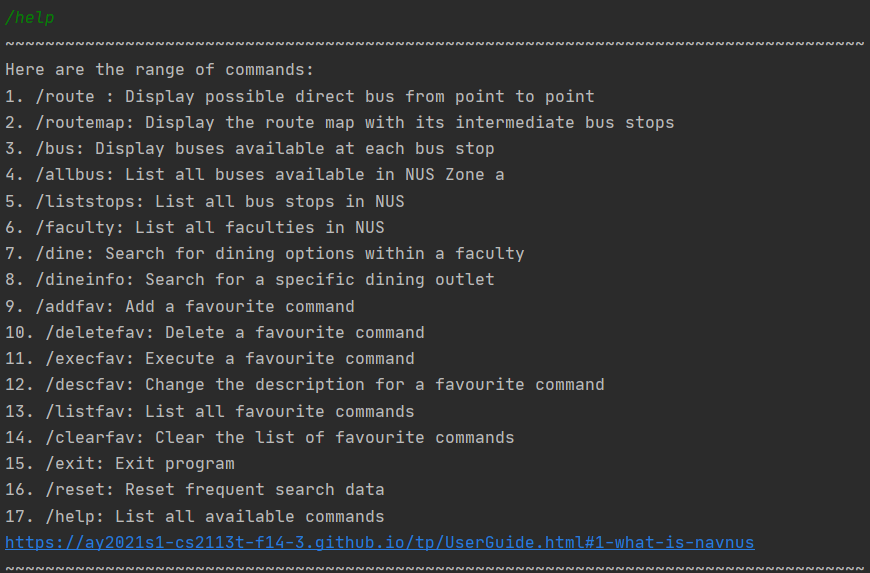
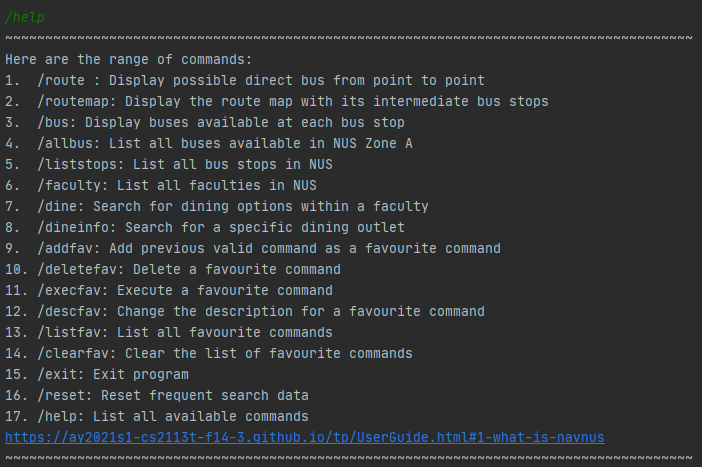
Change image for help and exit.
Include note for addfav

Changed region(s): [[0.0, 0.0, 1.0, 1.0]]

diff --git a/docs/UserGuide.md b/docs/UserGuide.md
@@ -331,7 +331,9 @@ to your needs.
 
 <!-- @@author Lezn0 -->
 ### 3.3.1. Add a favourite command: `/addfav` -Yuxin
-This command adds a valid command with an optional description to your list of favourites
+This command adds a valid command with an optional description to your list of favourites.
+>Note: A valid command is command that does not return an error message and not associated 
+>with any commands related to favourites.
 
 The format of this command is as follows:<br>
 <code>/addfav <strong> [description] </strong> </code>
@@ -511,9 +513,7 @@ The format of this command is as follows:<br>
 <code>/exit</code>
 
 The application exits after displaying the following message.<br>
-```
-So long buddy!
-```
+<img src="UG_Figures/exit.png" alt="Correct input message" width=600><br>
 
 ## 4. FAQ
 This section addresses some common questions to aid in possible issues faced.
